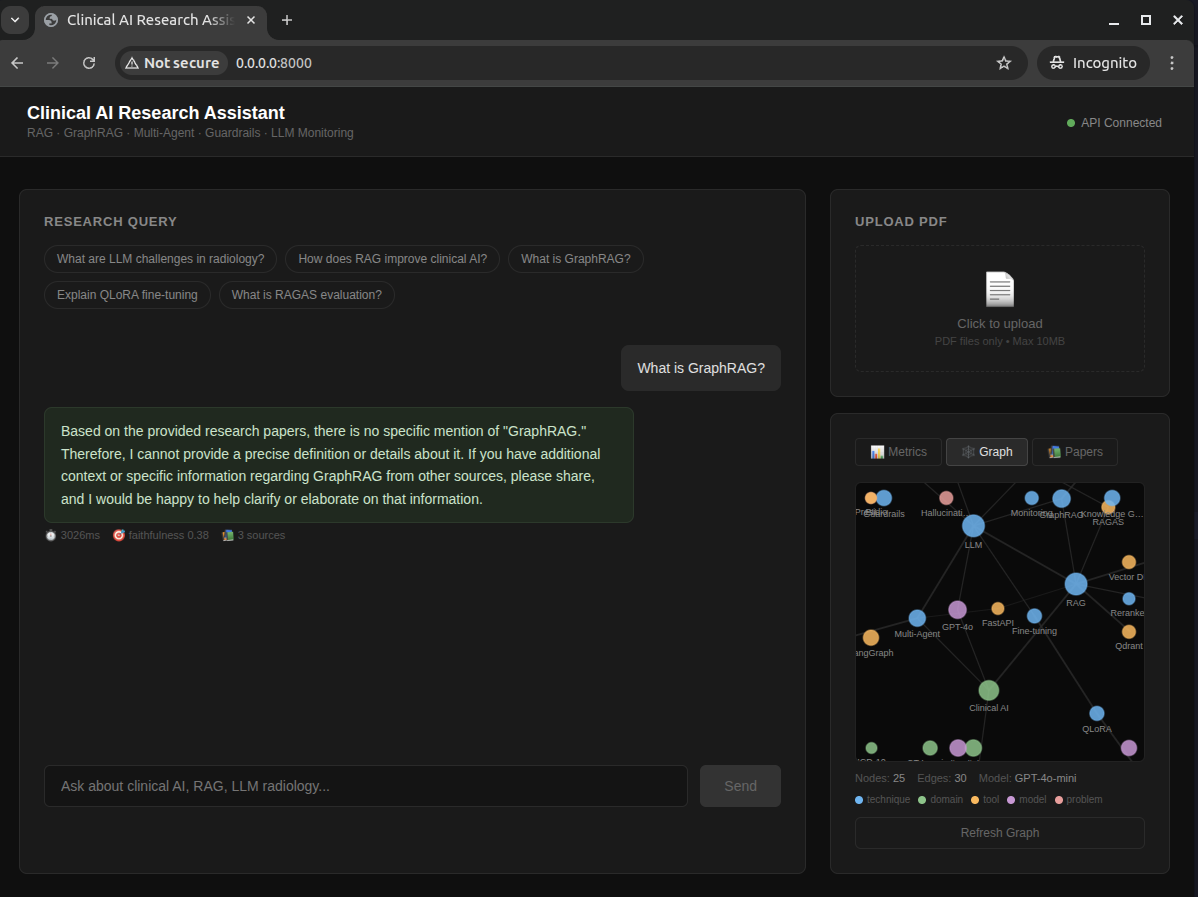
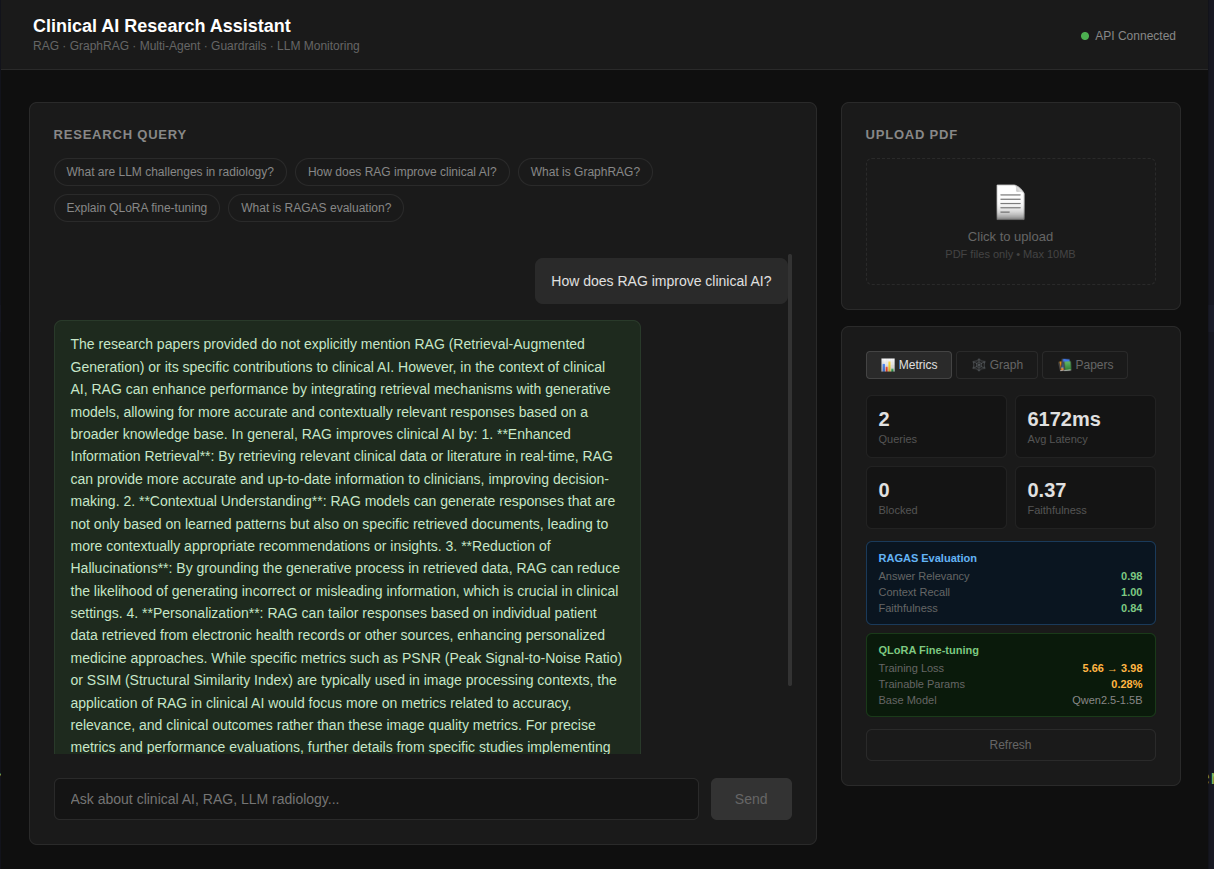
Add RAGAS metrics QLoRA stats dashboard

diff --git a/frontend/index.html b/frontend/index.html
@@ -351,12 +351,46 @@
                         <div className="metric-label">Avg Latency</div>
                       </div>
                       <div className="metric-item">
+                        <div className="metric-value">{metrics?.blocked_count ?? 0}</div>
+                        <div className="metric-label">Blocked</div>
+                      </div>
+                      <div className="metric-item">
                         <div className="metric-value">{metrics?.avg_faithfulness ? metrics.avg_faithfulness.toFixed(2) : '—'}</div>
                         <div className="metric-label">Faithfulness</div>
                       </div>
-                      <div className="metric-item">
-                        <div className="metric-value">{metrics?.blocked_count ?? 0}</div>
-                        <div className="metric-label">Blocked</div>
+                    </div>
+                    <div style={{marginTop:12, padding:'10px 12px', background:'#0a1520', border:'1px solid #1a3a5a', borderRadius:6}}>
+                      <div style={{fontSize:11, color:'#64b5f6', fontWeight:600, marginBottom:6}}>RAGAS Evaluation</div>
+                      <div style={{display:'flex', flexDirection:'column', gap:4}}>
+                        <div style={{display:'flex', justifyContent:'space-between', fontSize:11}}>
+                          <span style={{color:'#666'}}>Answer Relevancy</span>
+                          <span style={{color:'#81c784', fontWeight:600}}>0.98</span>
+                        </div>
+                        <div style={{display:'flex', justifyContent:'space-between', fontSize:11}}>
+                          <span style={{color:'#666'}}>Context Recall</span>
+                          <span style={{color:'#81c784', fontWeight:600}}>1.00</span>
+                        </div>
+                        <div style={{display:'flex', justifyContent:'space-between', fontSize:11}}>
+                          <span style={{color:'#666'}}>Faithfulness</span>
+                          <span style={{color:'#81c784', fontWeight:600}}>0.84</span>
+                        </div>
+                      </div>
+                    </div>
+                    <div style={{marginTop:8, padding:'10px 12px', background:'#0a1a0a', border:'1px solid #1a3a1a', borderRadius:6}}>
+                      <div style={{fontSize:11, color:'#81c784', fontWeight:600, marginBottom:6}}>QLoRA Fine-tuning</div>
+                      <div style={{display:'flex', flexDirection:'column', gap:4}}>
+                        <div style={{display:'flex', justifyContent:'space-between', fontSize:11}}>
+                          <span style={{color:'#666'}}>Training Loss</span>
+                          <span style={{color:'#ffb74d', fontWeight:600}}>5.66 → 3.98</span>
+                        </div>
+                        <div style={{display:'flex', justifyContent:'space-between', fontSize:11}}>
+                          <span style={{color:'#666'}}>Trainable Params</span>
+                          <span style={{color:'#ffb74d', fontWeight:600}}>0.28%</span>
+                        </div>
+                        <div style={{display:'flex', justifyContent:'space-between', fontSize:11}}>
+                          <span style={{color:'#666'}}>Base Model</span>
+                          <span style={{color:'#888'}}>Qwen2.5-1.5B</span>
+                        </div>
                       </div>
                     </div>
                     <button className="btn-refresh" onClick={fetchMetrics}>Refresh</button>

diff --git a/api/research_api.py b/api/research_api.py
@@ -288,7 +288,13 @@ async def metrics():
             "avg_latency_ms": round(rows[1] or 0, 1),
             "avg_faithfulness": round(rows[2] or 0, 3),
             "blocked_count": rows[3] or 0,
-            "timestamp": datetime.now().isoformat()
+            "timestamp": datetime.now().isoformat(),
+            "ragas_eval": {
+                "answer_relevancy": 0.98,
+                "context_recall": 1.00,
+                "faithfulness": 0.84,
+                "note": "Evaluated on clinical AI radiology paper QA benchmark"
+            }
         }
     except Exception as e:
         return {"error": str(e)}
